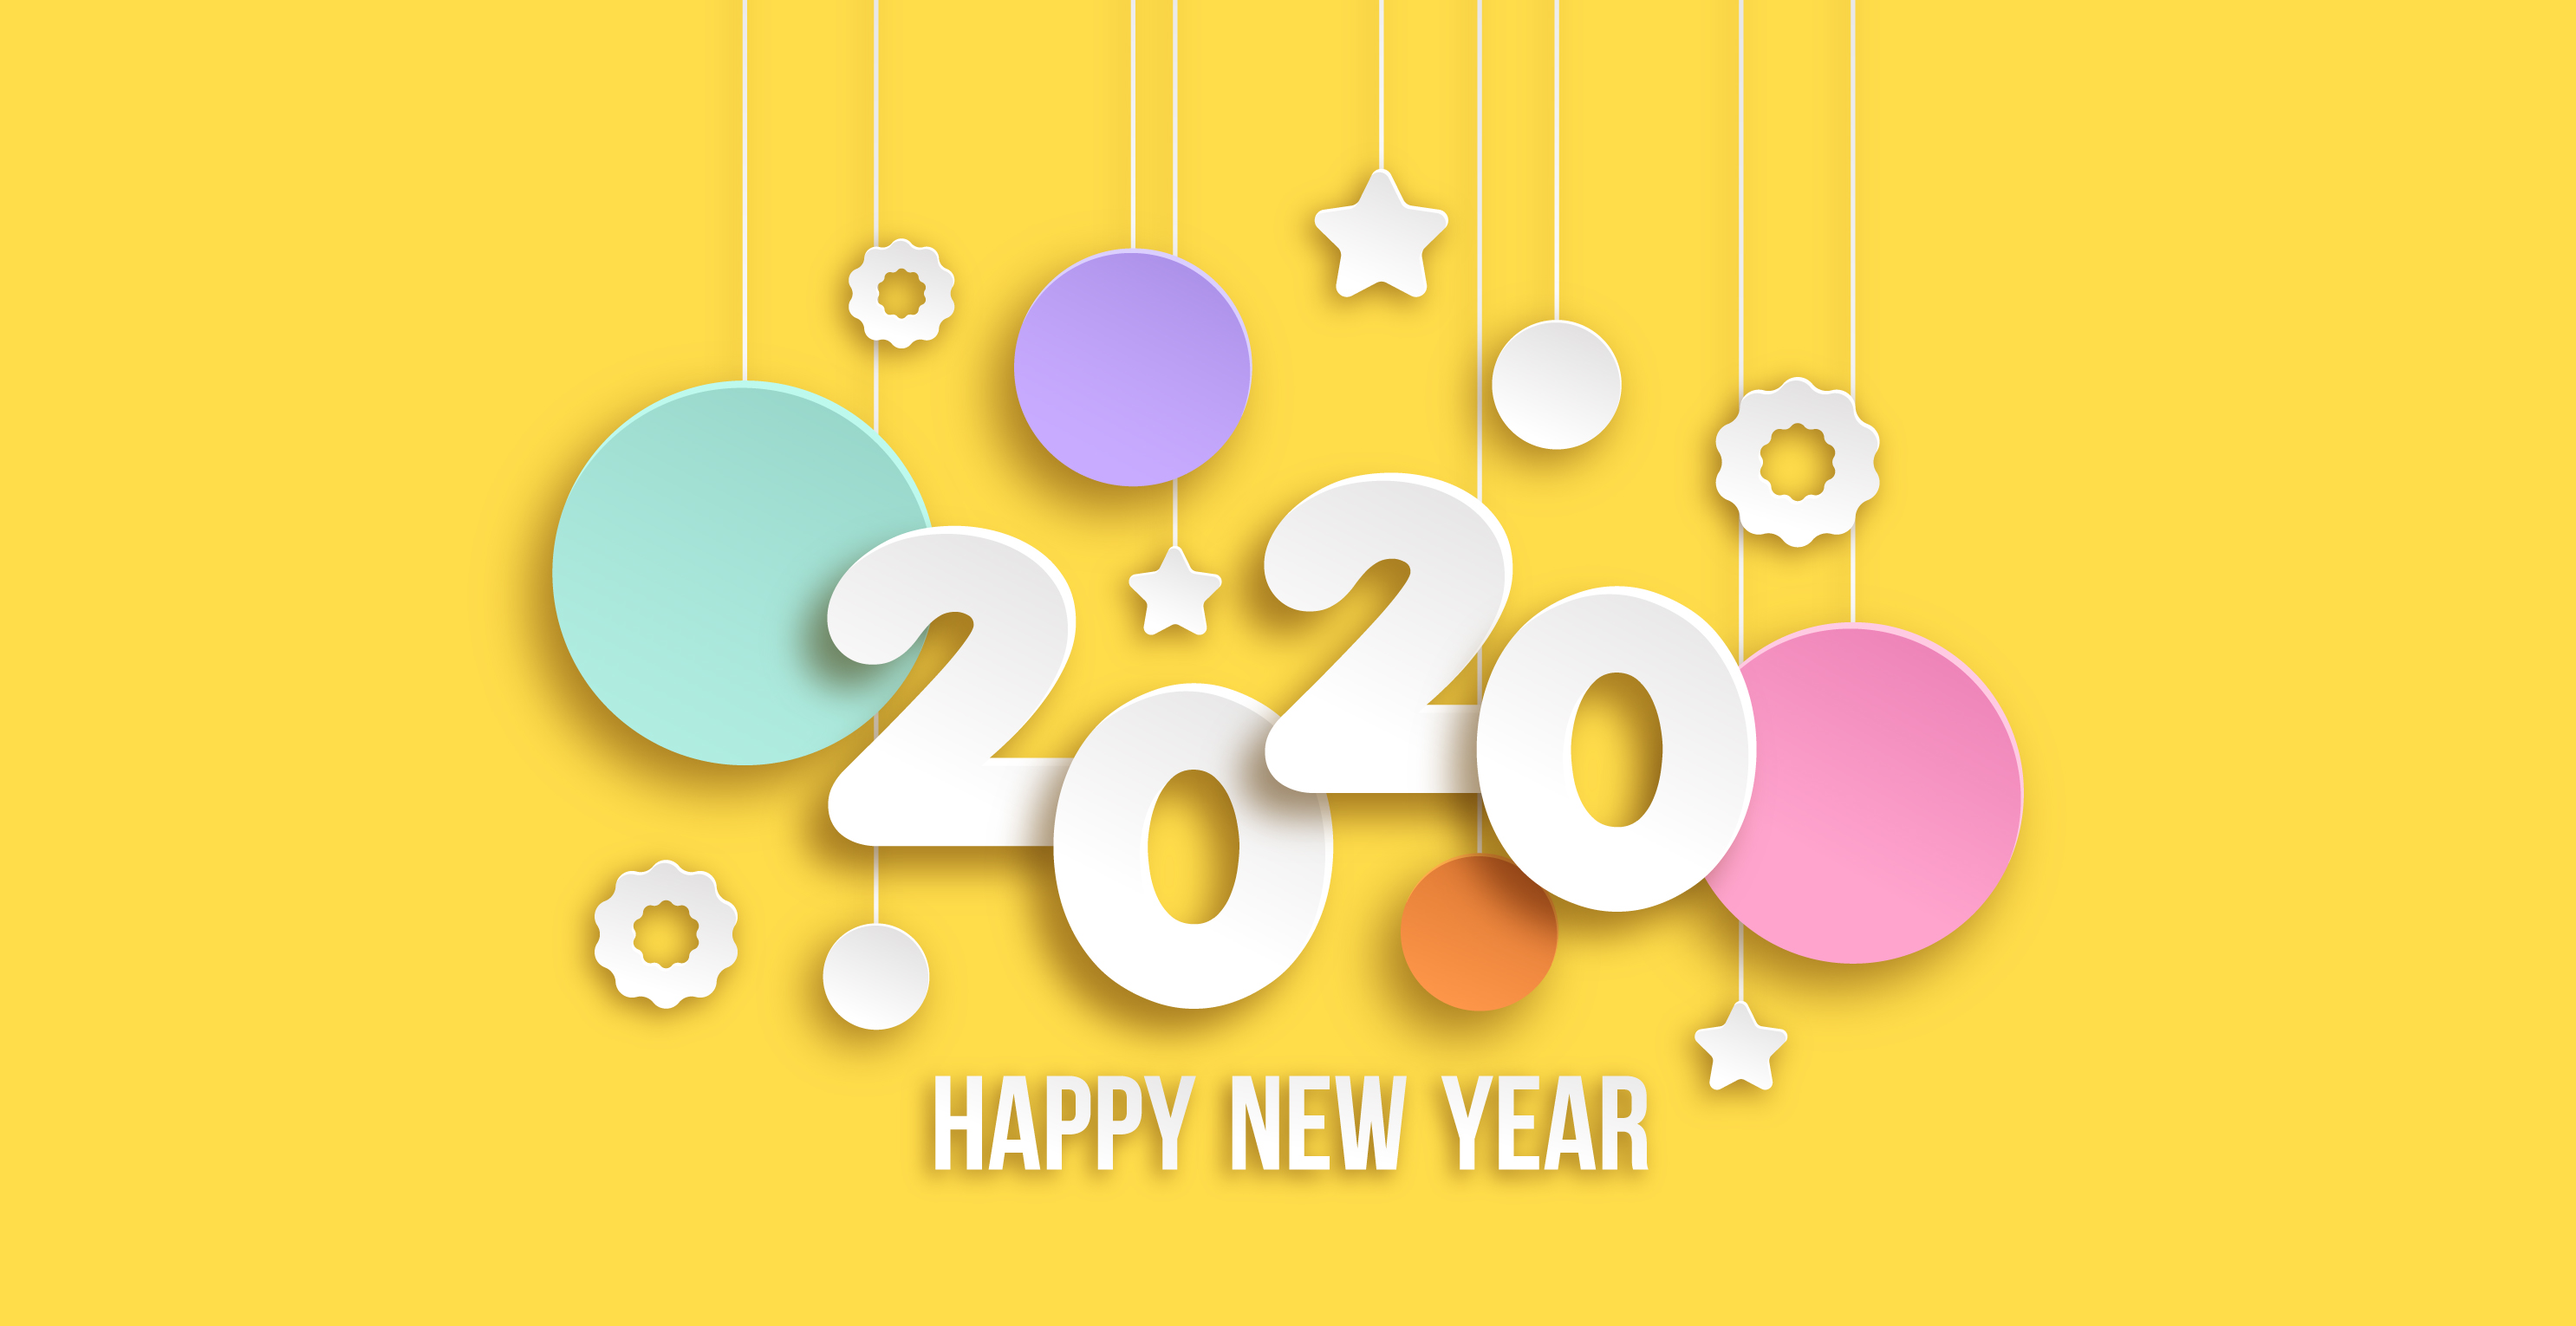
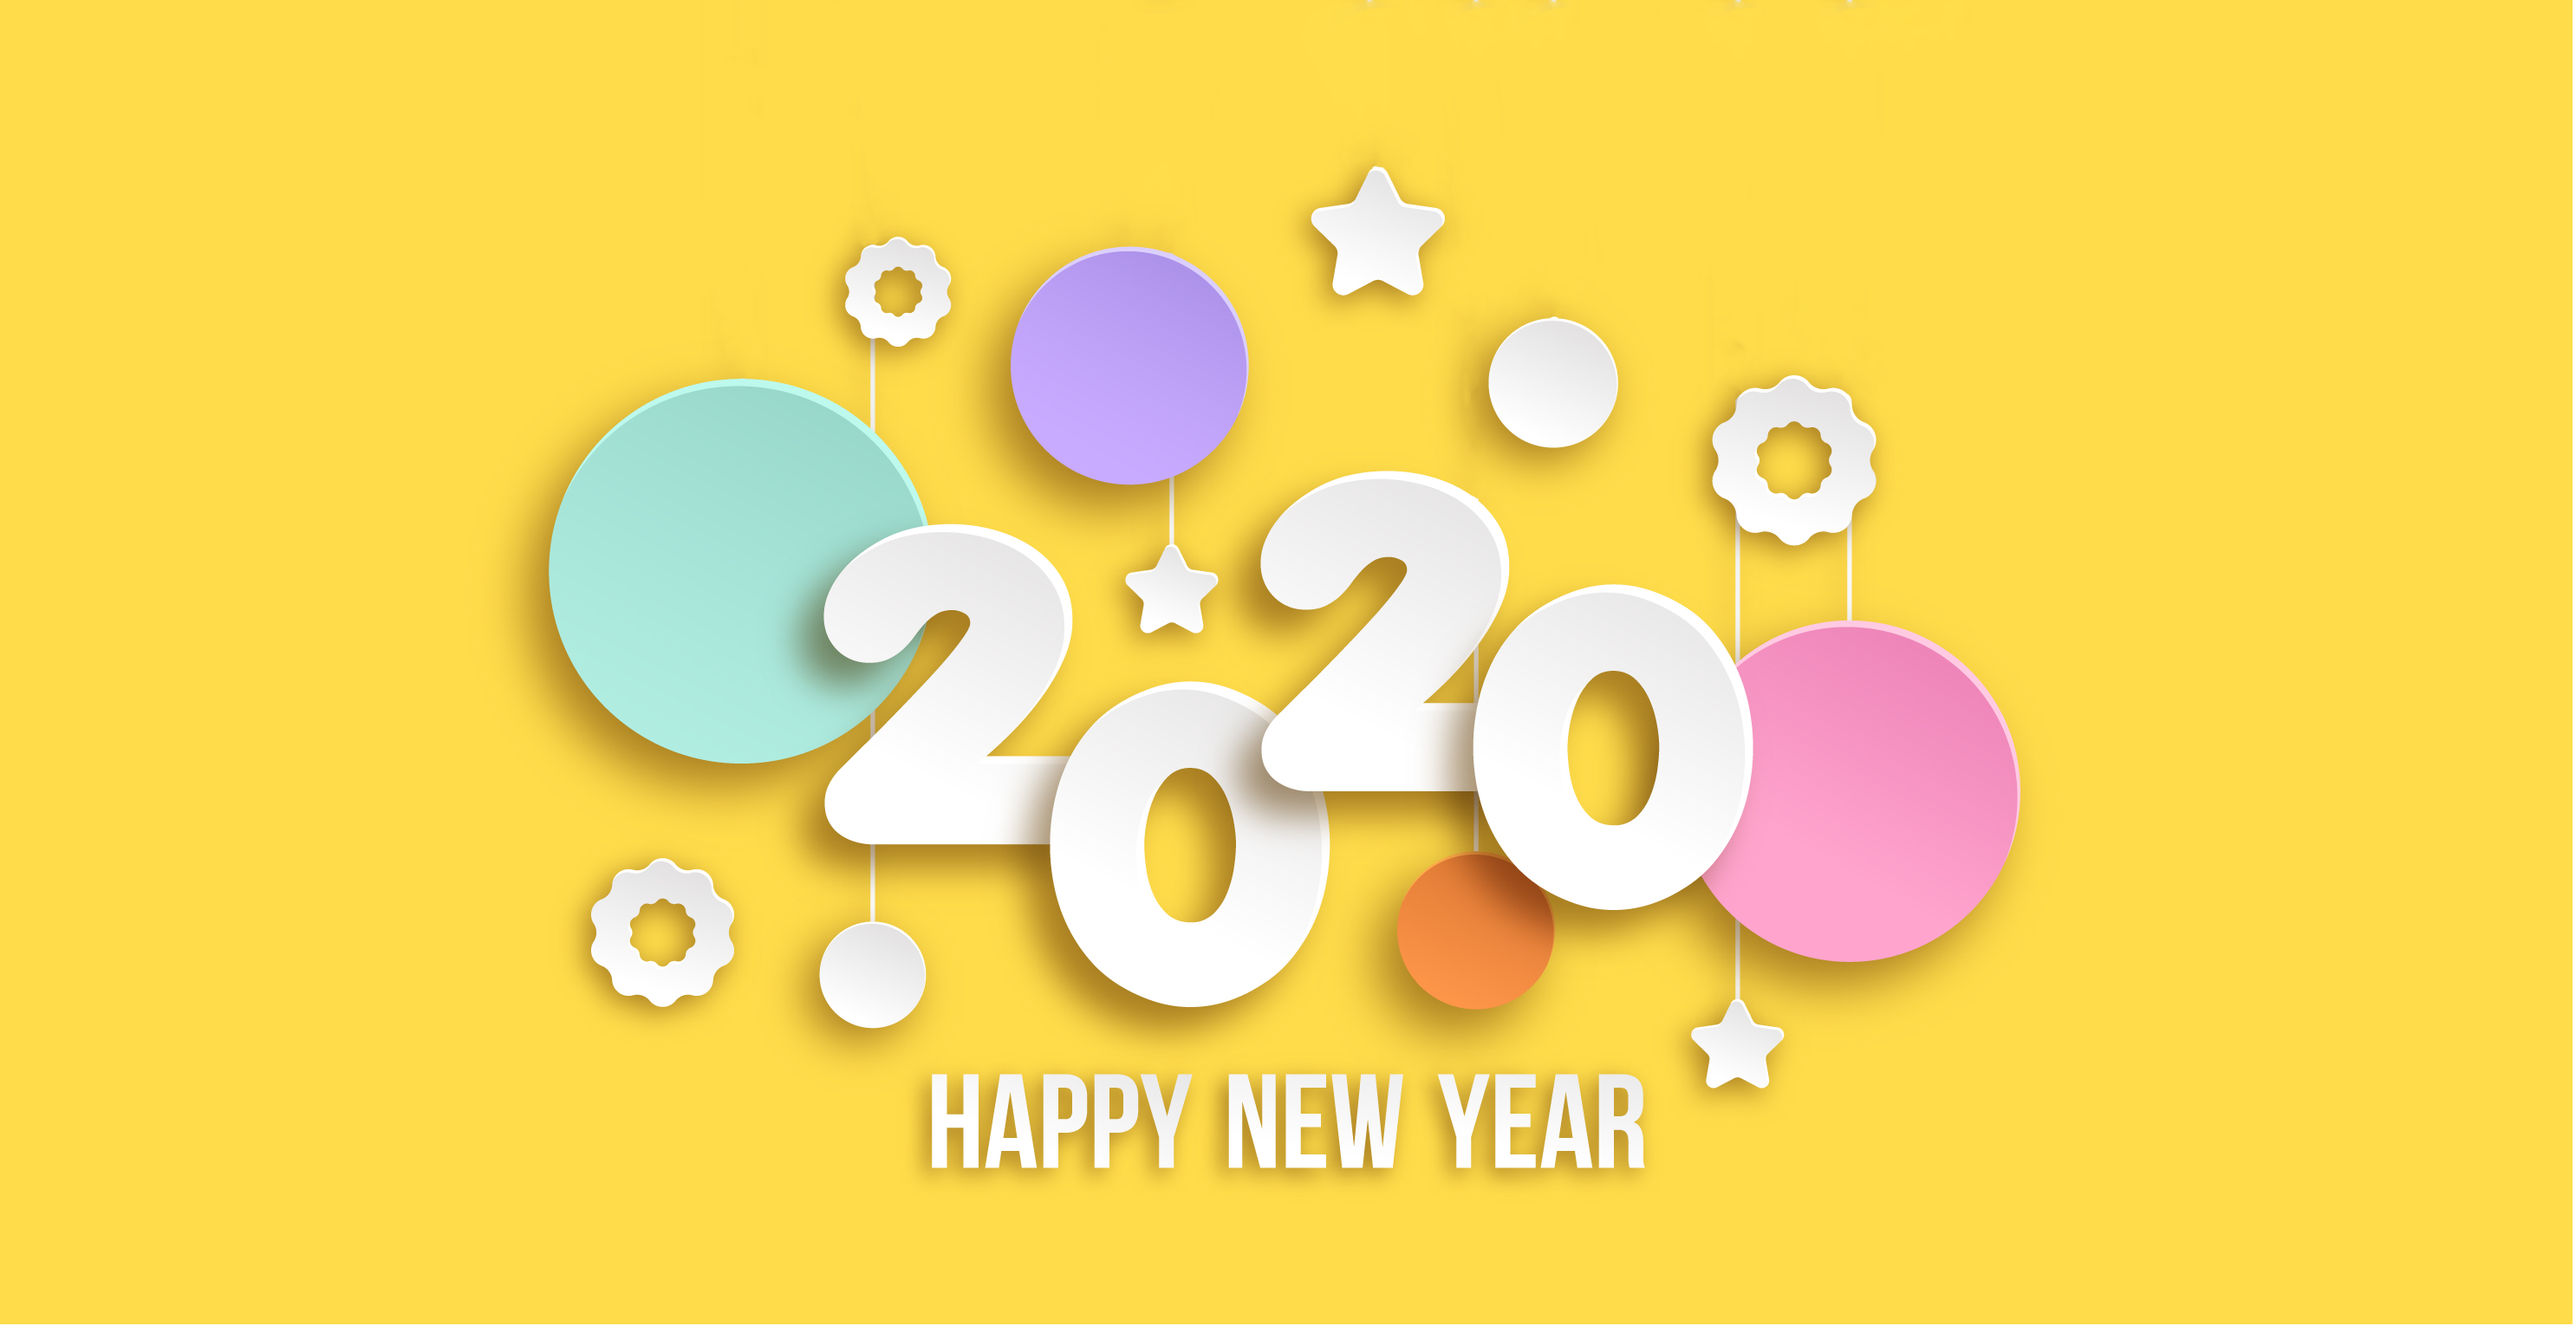
blog

diff --git a/css/style.css b/css/style.css
@@ -212,7 +212,7 @@ span {
   align-items: center;
   flex-direction: column;
   text-align: center;
-  margin-bottom: -70px;
+  margin-bottom: -90px;
 }
 
 #home h1 {
@@ -248,7 +248,7 @@ span {
 }
 
 #home img {
-  max-width: 58%;
+  max-width: 74%;
   margin-bottom: 30px;
 }
 
